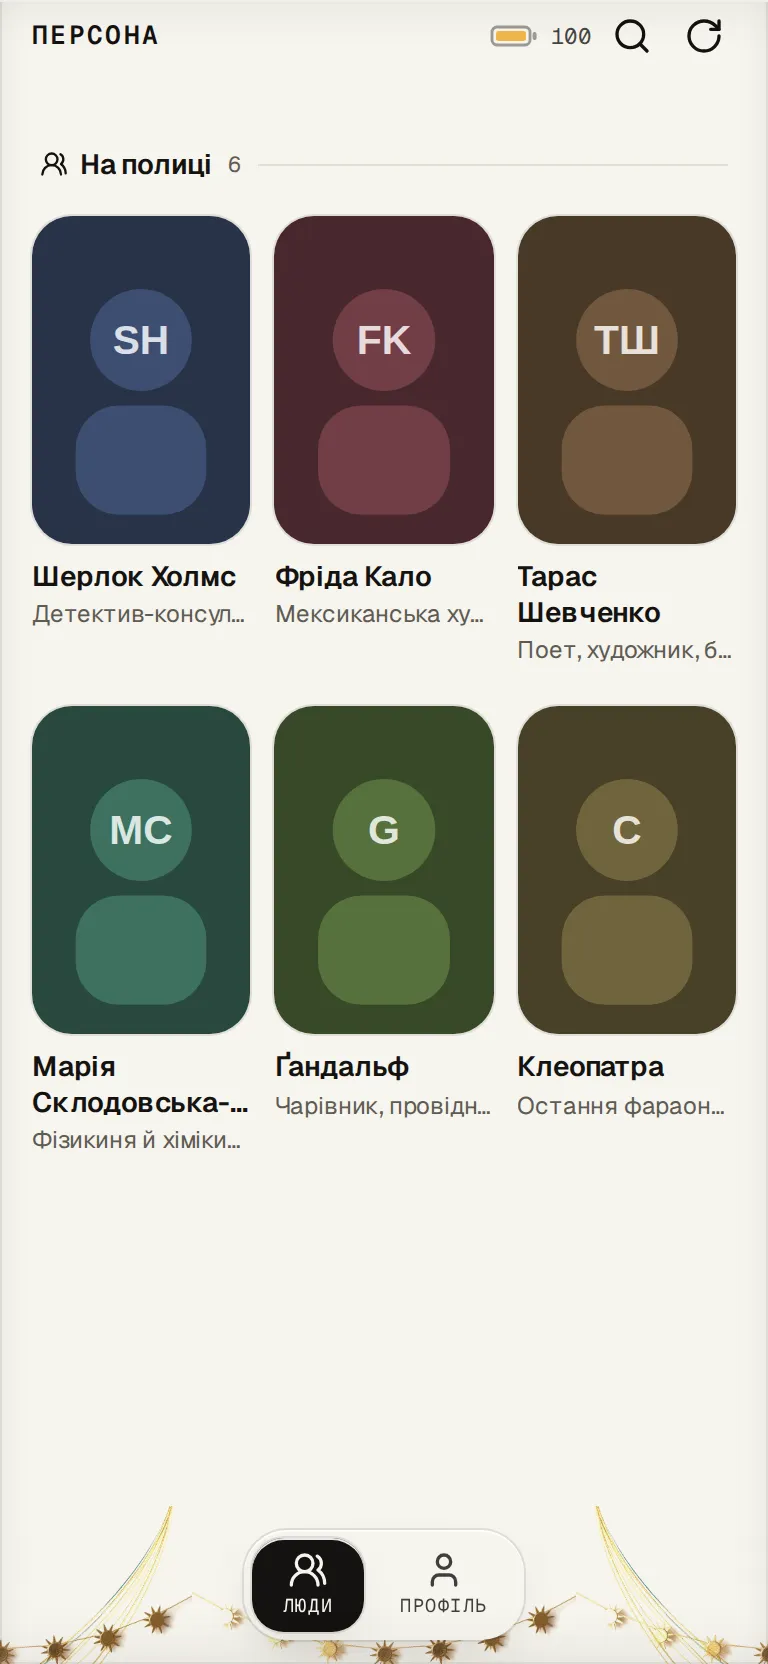
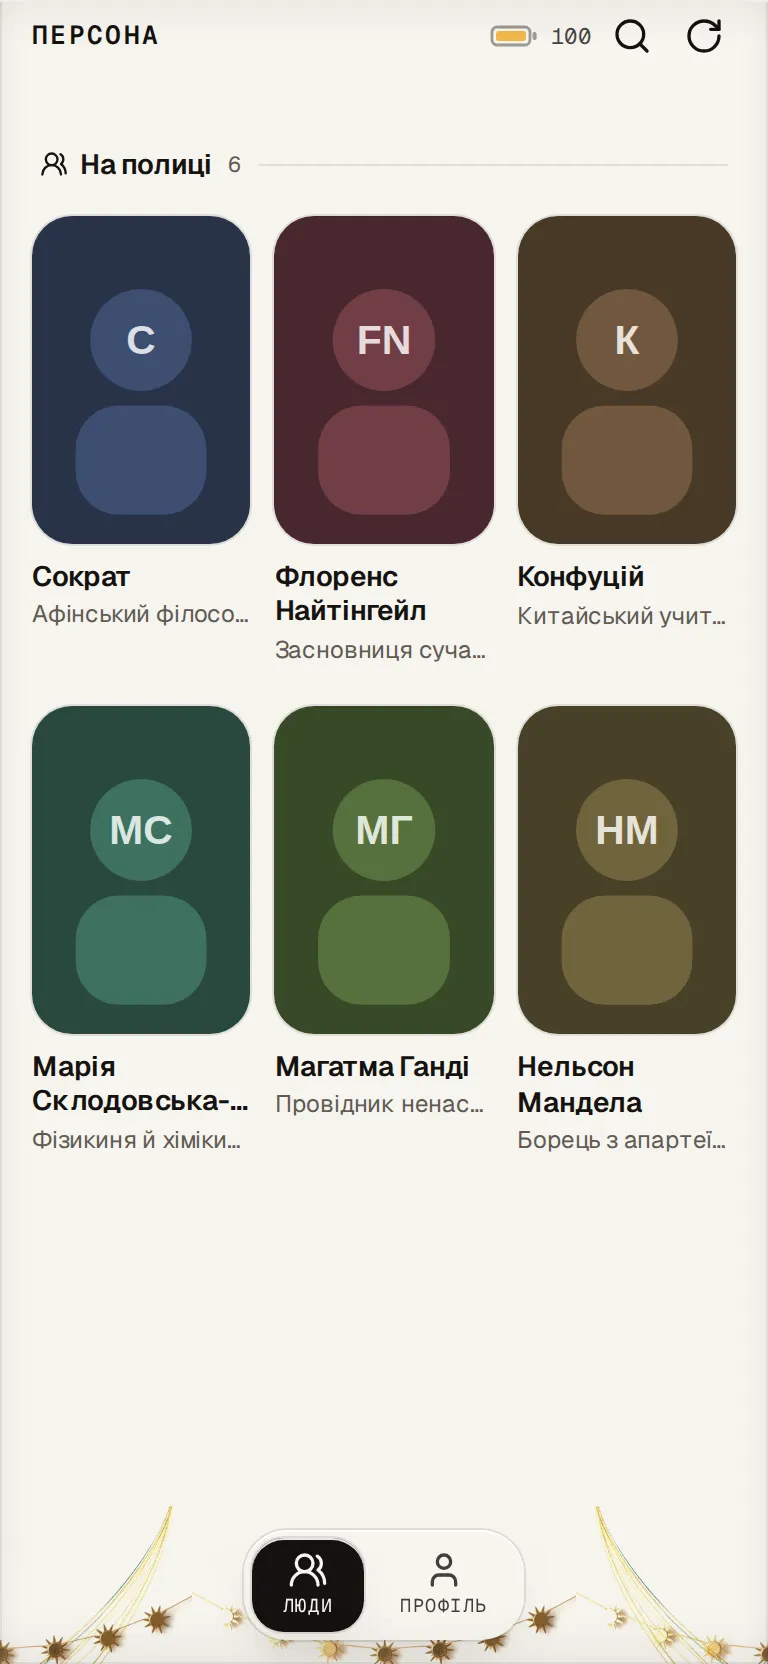
site: the landing rewritten in the reader's moments, not the farm's features
Owner 2026-10-12: «лендінг зроблено погано. там сухі фічі а не юзерські тексти. зроби дослідження і повний
рерайт». Every line used to describe the product (installs in one tap, opens offline, ten shelves, two
languages). Rewritten benefit-first in the second person, the way the store's best lines already speak:

- hero: «Усе для твого дня. Навіть без мережі.», the lede three moments (songs in the metro, the weather while
  the kettle boils, a live channel from the other side of the world); each sentence its own balanced line
- the rail is a day, «Від першої кави до останнього треку»: an hour (07:10 … 01:00), what happens to the reader,
  and only then the app's name, small
- shelves «На кожен настрій своя полиця»; the offline fact leads with where it matters here: the metro, a
  shelter, a blackout; the end asks «З чого почнеш свій день?»
- title, description, og/twitter and og.jpg follow the new voice

Also: the persona store captures retaken with the new fixture shelf (cf9f604).

diff --git a/site/index.html b/site/index.html
@@ -3,8 +3,8 @@
 <head>
 <meta charset="utf-8">
 <meta name="viewport" content="width=device-width,initial-scale=1,viewport-fit=cover">
-<title>Mriia: {{APPS}} для телефона, що працюють без інтернету</title>
-<meta name="description" content="{{LIGHT_APPS}} українською: музика, фото, наука, ефір і корисні дрібниці. Ставляться на телефон в один дотик і відкриваються без інтернету.">
+<title>Mriia: {{APPS}} українською для телефона, що працюють без мережі</title>
+<meta name="description" content="Музика, що грає без інтернету, погода й повітря зранку, прямий ефір з усього світу ввечері. {{LIGHT_APPS}} українською, які ставляться на телефон одним дотиком.">
 <meta name="robots" content="index,follow,max-image-preview:large">
 <link rel="canonical" href="https://mriia.si/">
 <meta name="theme-color" content="#000000" media="(prefers-color-scheme: dark)">
@@ -13,15 +13,15 @@
 <meta property="og:site_name" content="Mriia">
 <meta property="og:locale" content="uk_UA">
 <meta property="og:url" content="https://mriia.si/">
-<meta property="og:title" content="Mriia: застосунки, що живуть у твоєму телефоні">
-<meta property="og:description" content="{{LIGHT_APPS}} українською. Ставляться в один дотик і відкриваються без інтернету.">
+<meta property="og:title" content="Mriia: усе для твого дня, навіть без мережі">
+<meta property="og:description" content="Пісні, що грають у метро, погода зранку, ефір з усього світу ввечері. {{LIGHT_APPS}} українською.">
 <meta property="og:image" content="https://mriia.si/og.jpg">
 <meta property="og:image:width" content="1200">
 <meta property="og:image:height" content="630">
 <meta property="og:image:alt" content="Mriia: екрани застосунків на телефоні">
 <meta name="twitter:card" content="summary_large_image">
-<meta name="twitter:title" content="Mriia: застосунки, що живуть у твоєму телефоні">
-<meta name="twitter:description" content="{{LIGHT_APPS}} українською. Ставляться в один дотик і відкриваються без інтернету.">
+<meta name="twitter:title" content="Mriia: усе для твого дня, навіть без мережі">
+<meta name="twitter:description" content="Пісні, що грають у метро, погода зранку, ефір з усього світу ввечері. {{LIGHT_APPS}} українською.">
 <meta name="twitter:image" content="https://mriia.si/og.jpg">
 <link rel="icon" href="/store/icon.svg" type="image/svg+xml">
 <link rel="apple-touch-icon" href="/store/icons/apple-touch-icon.png">
@@ -77,6 +77,8 @@ img { display: block; max-width: 100%; height: auto; }
 .hero .wrap { display: grid; gap: clamp(2.5rem, 6vw, 4rem); align-items: center; }
 @media (min-width: 900px) { .hero .wrap { grid-template-columns: 1.08fr .92fr; } }
 h1 { margin: 0; font-weight: 640; font-size: clamp(2.5rem, 6.4vw, 4.75rem); line-height: 1.02; letter-spacing: -.035em; text-wrap: balance; }
+/* each sentence of the headline starts its own line and balances on its own ("дня." never hangs alone) */
+h1 .ln { display: block; text-wrap: balance; }
 h1 .lit { color: var(--mark); }
 .lede { margin: 1.4rem 0 2.1rem; max-width: 34rem; font-size: clamp(1.06rem, 1.6vw, 1.22rem); color: var(--muted); text-wrap: pretty; }
 .phones { position: relative; height: clamp(440px, 62vw, 620px); }
@@ -99,10 +101,11 @@ h2 { margin: 0 0 2.2rem; font-weight: 620; font-size: clamp(1.85rem, 4vw, 3rem);
 .app { scroll-snap-align: start; text-decoration: none; display: grid; gap: .9rem; }
 .app .phone { position: relative; width: 100%; transform: none; transition: transform .35s var(--ease), box-shadow .35s var(--ease); }
 .app:hover .phone { transform: translateY(-4px); box-shadow: 0 0 0 1px color-mix(in oklch, var(--mark) 55%, transparent), 0 24px 60px -24px var(--bloom); }
-.app .who { display: flex; align-items: center; gap: .7rem; }
-.app .who img { width: 40px; height: 40px; border-radius: 12px; }
-.app b { display: block; font-weight: 600; }
-.app span { display: block; font-size: .92rem; color: var(--muted); line-height: 1.35; }
+/* the moment leads (the hour, then what happens to the reader), the app's name follows it, small */
+.app .when { display: block; font-size: .78rem; letter-spacing: .08em; color: var(--mark); }
+.app .moment p { margin: .35rem 0 .7rem; font-size: 1.02rem; font-weight: 520; line-height: 1.4; color: var(--ink); text-wrap: pretty; }
+.app .who { display: flex; align-items: center; gap: .5rem; font-size: .88rem; color: var(--muted); }
+.app .who img { width: 24px; height: 24px; border-radius: 7px; }
 
 /* the shelves: every category, as many tiles as there are */
 .bento { display: grid; gap: .85rem; grid-template-columns: repeat(2, 1fr); }
@@ -170,8 +173,8 @@ footer a:hover { color: var(--ink); }
 <main>
 <section class="hero" aria-labelledby="h-hero"><div class="wrap">
   <div>
-    <h1 id="h-hero" class="rise">Застосунки, що живуть у <span class="lit">твоєму телефоні</span></h1>
-    <p class="lede rise" style="--d:80ms">{{LIGHT_APPS}} українською: музика, фото, наука, ефір і корисні дрібниці. Ставляться в один дотик і відкриваються без інтернету.</p>
+    <h1 id="h-hero" class="rise"><span class="ln">Усе для твого дня.</span> <span class="ln lit">Навіть без мережі.</span></h1>
+    <p class="lede rise" style="--d:80ms">Пісні, що грають у метро. Погода, поки закипає чайник. Прямий ефір з іншого кінця світу. {{LIGHT_APPS}} українською, які ставляться на телефон одним дотиком.</p>
     <a class="cta rise" style="--d:160ms" href="/store/">Відкрити каталог {{ICON arrow-right}}</a>
   </div>
   <div class="phones">
@@ -181,33 +184,33 @@ footer a:hover { color: var(--ink); }
 </div></section>
 
 <section aria-labelledby="h-rail"><div class="wrap">
-  <h2 id="h-rail" class="rise">Кожен робить одну річ і робить її добре</h2>
+  <h2 id="h-rail" class="rise">Від першої кави до останнього треку</h2>
   <div class="rail">{{RAIL}}</div>
 </div></section>
 
 <section aria-labelledby="h-shelves"><div class="wrap">
-  <h2 id="h-shelves" class="rise">{{SHELVES_N}} полиць, {{APPS}}</h2>
+  <h2 id="h-shelves" class="rise">На кожен настрій своя полиця</h2>
   <div class="bento">{{BENTO}}</div>
 </div></section>
 
 <section class="lives" aria-labelledby="h-lives"><div class="wrap">
   <div class="phone rise lives-phone">{{LIVES_IMG}}</div>
   <div>
-    <h2 id="h-lives" class="rise">Ставиться як застосунок, лишається з тобою</h2>
+    <h2 id="h-lives" class="rise">Поруч, навіть коли зникла мережа</h2>
     <div class="facts">
-      <div class="fact rise"><div class="ic" aria-hidden="true">{{ICON smartphone}}</div>
-        <div><h3>Один дотик до головного екрана</h3><p>Відкрив, натиснув «Встановити», і застосунок стоїть поруч з іншими. Без магазину і без очікування.</p></div></div>
-      <div class="fact rise" style="--d:80ms"><div class="ic" aria-hidden="true">{{ICON wifi-off}}</div>
-        <div><h3>Відкривається без інтернету</h3><p>Застосунок зберігається на телефоні, тож запускається і в метро, і в полі. Мережа потрібна лише для свіжих даних.</p></div></div>
+      <div class="fact rise"><div class="ic" aria-hidden="true">{{ICON wifi-off}}</div>
+        <div><h3>У метро, в укритті, коли вимкнули світло</h3><p>Застосунок живе в телефоні, тож відкривається завжди. Інтернет потрібен тільки для свіжого: новин, погоди, ефіру.</p></div></div>
+      <div class="fact rise" style="--d:80ms"><div class="ic" aria-hidden="true">{{ICON smartphone}}</div>
+        <div><h3>Ставиш, як звичайний застосунок</h3><p>Натиснув «Встановити», і він уже на головному екрані поруч з улюбленими. Без магазину і без очікування.</p></div></div>
       <div class="fact rise" style="--d:160ms"><div class="ic" aria-hidden="true">{{ICON languages}}</div>
-        <div><h3>Українською й англійською</h3><p>Кожен застосунок говорить обома мовами. Мова перемикається в профілі одним дотиком.</p></div></div>
+        <div><h3>Говорить українською</h3><p>Від першого екрана до останньої кнопки. А для друга з-за кордону англійська вмикається в профілі.</p></div></div>
     </div>
   </div>
 </div></section>
 
 <section class="end" aria-labelledby="h-end"><div class="wrap">
   <p class="big rise" aria-hidden="true">Mriia</p>
-  <h2 id="h-end" class="rise">Обери свій перший застосунок</h2>
+  <h2 id="h-end" class="rise">З чого почнеш свій день?</h2>
   <a class="cta rise" href="/store/">Відкрити каталог {{ICON arrow-right}}</a>
 </div></section>
 </main>

diff --git a/site/og.html b/site/og.html
@@ -10,7 +10,7 @@
   .glow { position: absolute; right: -60px; top: 40px; width: 760px; height: 600px; background: radial-gradient(closest-side, rgb(242 184 75 / .32), transparent 70%), radial-gradient(closest-side at 75% 80%, rgb(92 228 220 / .2), transparent 70%); filter: blur(30px); }
   .copy { position: absolute; left: 72px; top: 92px; width: 560px; }
   .mark { font-weight: 650; font-size: 34px; letter-spacing: -.02em; }
-  h1 { margin: 64px 0 0; font-weight: 640; font-size: 66px; line-height: 1.02; letter-spacing: -.035em; }
+  h1 { margin: 64px 0 0; font-weight: 640; font-size: 58px; line-height: 1.02; letter-spacing: -.035em; }
   h1 span { color: #F2B84B; }
   p { margin: 26px 0 0; font-size: 25px; color: #A39E94; line-height: 1.4; }
   .ph { position: absolute; width: 214px; height: 464px; border-radius: 34px; overflow: hidden; box-shadow: 0 0 0 1px rgb(242 238 230 / .14), 0 30px 70px -20px rgb(0 0 0 / .7); }
@@ -24,8 +24,8 @@
   <div class="glow"></div>
   <div class="copy">
     <div class="mark">Mriia</div>
-    <h1>Застосунки, що живуть у <span>твоєму телефоні</span></h1>
-    <p>{{LIGHT_APPS}} українською. Ставляться в один дотик і відкриваються без інтернету.</p>
+    <h1>Усе для твого дня.<br><span>Навіть без мережі.</span></h1>
+    <p>Пісні, що грають у метро. Погода зранку. Ефір з усього світу ввечері. {{LIGHT_APPS}} українською.</p>
   </div>
   <div class="ph a"><img src="/store/assets/shot-remix--mix.webp" alt=""></div>
   <div class="ph b"><img src="/store/assets/shot-fonoteka--songs.webp" alt=""></div>
